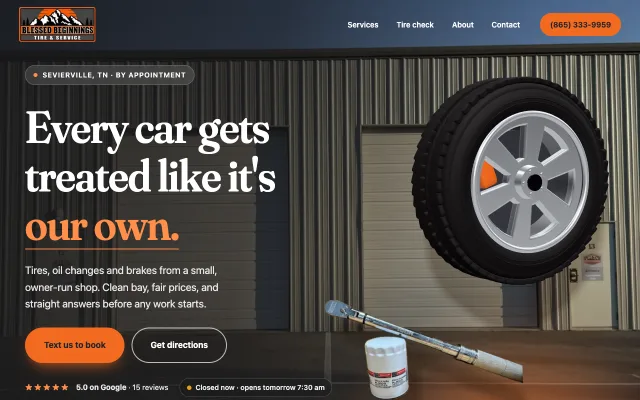
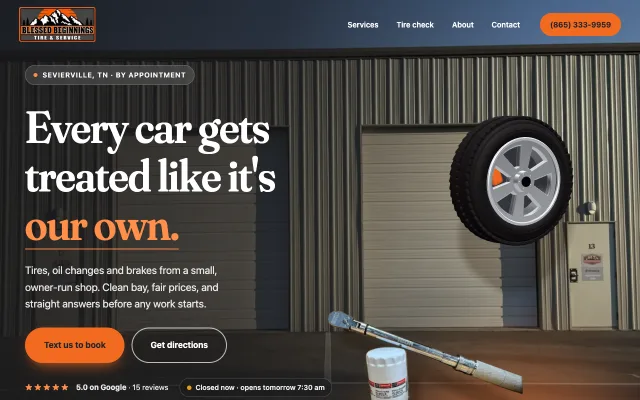
Our work: new Downtown River Rentals screenshot, smaller tire on Blessed, reorder cards
Downtown River Rentals card now shows the redesign that went live tonight.
Blessed Beginnings re-captured with the hero tire drawn smaller so it no
longer covers the shop door. Cards reordered so the dark-hero sites
(Blessed Beginnings, C&R Moving, Colortec) never sit side by side or
stacked; the ItemList follows the same order.

Changed region(s): [[0.625, 0.18, 0.9688, 0.81], [0.5, 0.75, 0.8438, 1.0], [0.7188, 0.99, 0.7812, 1.0]]

diff --git a/work/index.html b/work/index.html
@@ -21,7 +21,7 @@
 <link rel="preload" href="/fonts/fraunces-600-latin.woff2?v=5d28351743" as="font" type="font/woff2" crossorigin>
 <link rel="stylesheet" href="/css/style.css?v=bd54bf3161">
 <script type="application/ld+json">{"@context": "https://schema.org", "@type": "ProfessionalService", "@id": "https://www.saltservicesusa.com/#business", "name": "Salt Services", "description": "Marketing and AI implementation agency in Kodak, Tennessee. CRM implementation, AI implementation, Google and Meta advertising, web design, and SEO/AEO for local businesses in East Tennessee.", "url": "https://www.saltservicesusa.com/", "telephone": "+18667217258", "email": "info@saltservicesusa.com", "image": "https://www.saltservicesusa.com/og-image.png", "logo": "https://www.saltservicesusa.com/images/salt-logo.png", "address": {"@type": "PostalAddress", "addressLocality": "Kodak", "addressRegion": "TN", "addressCountry": "US"}, "areaServed": [{"@type": "City", "name": "Kodak, TN"}, {"@type": "City", "name": "Sevierville, TN"}, {"@type": "City", "name": "Pigeon Forge, TN"}, {"@type": "City", "name": "Gatlinburg, TN"}, {"@type": "City", "name": "Knoxville, TN"}, {"@type": "City", "name": "Maryville, TN"}, {"@type": "City", "name": "Dandridge, TN"}]}</script>
-<script type="application/ld+json">{"@context": "https://schema.org", "@type": "ItemList", "name": "Client websites built by Salt Services", "itemListElement": [{"@type": "ListItem", "position": 1, "name": "Mountain Landscapers", "url": "https://www.mtnlandscapers.com/"}, {"@type": "ListItem", "position": 2, "name": "Downtown River Rentals", "url": "https://www.downtown-riverrentals.com/"}, {"@type": "ListItem", "position": 3, "name": "A Happy Host", "url": "https://www.ahappyhost.com/"}, {"@type": "ListItem", "position": 4, "name": "Smoky Mountain Espresso", "url": "https://www.smokymountainespresso.com/"}, {"@type": "ListItem", "position": 5, "name": "Sevier CPAs", "url": "https://www.cpaservicessevierville.com/"}, {"@type": "ListItem", "position": 6, "name": "Colortec Powder Coating", "url": "https://www.colorteccoatings.com/"}, {"@type": "ListItem", "position": 7, "name": "Blessed Beginnings Tire & Service", "url": "https://www.blessedbeginningstire.com/"}, {"@type": "ListItem", "position": 8, "name": "C&R Moving", "url": "https://www.cr-moving.com/"}]}</script>
+<script type="application/ld+json">{"@context": "https://schema.org", "@type": "ItemList", "name": "Client websites built by Salt Services", "itemListElement": [{"@type": "ListItem", "position": 1, "name": "Mountain Landscapers", "url": "https://www.mtnlandscapers.com/"}, {"@type": "ListItem", "position": 2, "name": "Blessed Beginnings Tire & Service", "url": "https://www.blessedbeginningstire.com/"}, {"@type": "ListItem", "position": 3, "name": "Downtown River Rentals", "url": "https://www.downtown-riverrentals.com/"}, {"@type": "ListItem", "position": 4, "name": "A Happy Host", "url": "https://www.ahappyhost.com/"}, {"@type": "ListItem", "position": 5, "name": "C&R Moving", "url": "https://www.cr-moving.com/"}, {"@type": "ListItem", "position": 6, "name": "Smoky Mountain Espresso", "url": "https://www.smokymountainespresso.com/"}, {"@type": "ListItem", "position": 7, "name": "Sevier CPAs", "url": "https://www.cpaservicessevierville.com/"}, {"@type": "ListItem", "position": 8, "name": "Colortec Powder Coating", "url": "https://www.colorteccoatings.com/"}]}</script>
 <script type="application/ld+json">{"@context": "https://schema.org", "@type": "BreadcrumbList", "itemListElement": [{"@type": "ListItem", "position": 1, "name": "Home", "item": "https://www.saltservicesusa.com/"}, {"@type": "ListItem", "position": 2, "name": "Our work", "item": "https://www.saltservicesusa.com/work/"}]}</script>
 </head>
 <body>
@@ -71,8 +71,17 @@
           </div>
         </a>
       </li><li class="card work-card">
+        <a href="https://www.blessedbeginningstire.com/" target="_blank" rel="noopener">
+          <img src="/images/work/blessed-beginnings.webp?v=b18d848555" alt="Blessed Beginnings Tire & Service website: the shop's roll-up door and a tire beside the headline 'Every car gets treated like it's our own'" width="640" height="400" loading="lazy">
+          <div class="work-body">
+            <h3>Blessed Beginnings Tire &amp; Service</h3>
+            <p>A family-run, appointment-only tire shop in Sevierville. Customers can check their tread with a penny, decode the size on their sidewall and see whether the shop is open right now, then book through a two-step request that lands straight in the owners' inbox.</p>
+            <span class="card-link">Visit the live site &rsaquo;</span>
+          </div>
+        </a>
+      </li><li class="card work-card">
         <a href="https://www.downtown-riverrentals.com/" target="_blank" rel="noopener">
-          <img src="/images/work/downtown-river-rentals.webp?v=05687ec250" alt="Downtown River Rentals website — cottage porch photo under 'Riverside Vacation Homes in Pigeon Forge'" width="640" height="400" loading="lazy">
+          <img src="/images/work/downtown-river-rentals.webp?v=942a095041" alt="Downtown River Rentals website — cottage porch photo behind 'Riverside Vacation Homes in Pigeon Forge' with Check availability and See the cottages buttons" width="640" height="400" loading="lazy">
           <div class="work-body">
             <h3>Downtown River Rentals</h3>
             <p>Vacation cottages a short walk from the Pigeon Forge Parkway. The site has one job: direct bookings that skip the booking platforms and their commission.</p>
@@ -85,6 +94,15 @@
           <div class="work-body">
             <h3>A Happy Host</h3>
             <p>A services hub for the short-term rental owners who keep the Smokies' cabins running — cleaning, concierge, and project work, presented so owners can act fast.</p>
+            <span class="card-link">Visit the live site &rsaquo;</span>
+          </div>
+        </a>
+      </li><li class="card work-card">
+        <a href="https://www.cr-moving.com/" target="_blank" rel="noopener">
+          <img src="/images/work/cr-moving.webp?v=bcbf6bb801" alt="C&amp;R Moving website: a moving truck at a mountain cabin under 'Sevierville movers who don't scratch a thing', with the quote form beside it" width="640" height="400" loading="lazy">
+          <div class="work-body">
+            <h3>C&amp;R Moving</h3>
+            <p>A veteran-owned moving crew from Sevierville that moves houses, cabins and apartments across Sevier County and Knoxville. Every page leads to a short quote form, and every call and request comes into one place so no move gets missed.</p>
             <span class="card-link">Visit the live site &rsaquo;</span>
           </div>
         </a>
@@ -112,24 +130,6 @@
           <div class="work-body">
             <h3>Colortec Powder Coating</h3>
             <p>Sandblasting and powder coating out of Sevierville, serving everyone from gearheads with a single part to industrial contractors with a full run. A working site for a working shop.</p>
-            <span class="card-link">Visit the live site &rsaquo;</span>
-          </div>
-        </a>
-      </li><li class="card work-card">
-        <a href="https://www.blessedbeginningstire.com/" target="_blank" rel="noopener">
-          <img src="/images/work/blessed-beginnings.webp?v=e16cde32a5" alt="Blessed Beginnings Tire & Service website: a tire and torque wrench beside the headline 'Every car gets treated like it's our own'" width="640" height="400" loading="lazy">
-          <div class="work-body">
-            <h3>Blessed Beginnings Tire &amp; Service</h3>
-            <p>A family-run, appointment-only tire shop in Sevierville. Customers can check their tread with a penny, decode the size on their sidewall and see whether the shop is open right now, then book through a two-step request that lands straight in the owners' inbox.</p>
-            <span class="card-link">Visit the live site &rsaquo;</span>
-          </div>
-        </a>
-      </li><li class="card work-card">
-        <a href="https://www.cr-moving.com/" target="_blank" rel="noopener">
-          <img src="/images/work/cr-moving.webp?v=bcbf6bb801" alt="C&amp;R Moving website: a moving truck at a mountain cabin under 'Sevierville movers who don't scratch a thing', with the quote form beside it" width="640" height="400" loading="lazy">
-          <div class="work-body">
-            <h3>C&amp;R Moving</h3>
-            <p>A veteran-owned moving crew from Sevierville that moves houses, cabins and apartments across Sevier County and Knoxville. Every page leads to a short quote form, and every call and request comes into one place so no move gets missed.</p>
             <span class="card-link">Visit the live site &rsaquo;</span>
           </div>
         </a>

diff --git a/index.html b/index.html
@@ -157,7 +157,7 @@
       </li>
       <li class="card work-card">
         <a href="https://www.downtown-riverrentals.com/" target="_blank" rel="noopener">
-          <img src="/images/work/downtown-river-rentals.webp?v=05687ec250" alt="Downtown River Rentals website — cottage porch photo under 'Riverside Vacation Homes in Pigeon Forge'" width="640" height="400" loading="lazy">
+          <img src="/images/work/downtown-river-rentals.webp?v=942a095041" alt="Downtown River Rentals website — cottage porch photo behind 'Riverside Vacation Homes in Pigeon Forge' with Check availability and See the cottages buttons" width="640" height="400" loading="lazy">
           <div class="work-body">
             <h3>Downtown River Rentals</h3>
             <p>A direct-booking site for Pigeon Forge vacation cottages — bookings without the platform commission.</p>
@@ -167,7 +167,7 @@
       </li>
       <li class="card work-card">
         <a href="https://www.blessedbeginningstire.com/" target="_blank" rel="noopener">
-          <img src="/images/work/blessed-beginnings.webp?v=e16cde32a5" alt="Blessed Beginnings Tire &amp; Service website: a tire and torque wrench beside the headline 'Every car gets treated like it's our own'" width="640" height="400" loading="lazy">
+          <img src="/images/work/blessed-beginnings.webp?v=b18d848555" alt="Blessed Beginnings Tire &amp; Service website: the shop's roll-up door and a tire beside the headline 'Every car gets treated like it's our own'" width="640" height="400" loading="lazy">
           <div class="work-body">
             <h3>Blessed Beginnings Tire &amp; Service</h3>
             <p>A family-run tire shop site with a penny tread check, a sidewall size reader and two-step booking.</p>

diff --git a/_build/pages_content.py b/_build/pages_content.py
@@ -151,7 +151,7 @@ HOME_BODY = f"""<section class="hero hero-3d">
       </li>
       <li class="card work-card">
         <a href="https://www.downtown-riverrentals.com/" target="_blank" rel="noopener">
-          <img src="/images/work/downtown-river-rentals.webp" alt="Downtown River Rentals website — cottage porch photo under 'Riverside Vacation Homes in Pigeon Forge'" width="640" height="400" loading="lazy">
+          <img src="/images/work/downtown-river-rentals.webp" alt="Downtown River Rentals website — cottage porch photo behind 'Riverside Vacation Homes in Pigeon Forge' with Check availability and See the cottages buttons" width="640" height="400" loading="lazy">
           <div class="work-body">
             <h3>Downtown River Rentals</h3>
             <p>A direct-booking site for Pigeon Forge vacation cottages — bookings without the platform commission.</p>
@@ -161,7 +161,7 @@ HOME_BODY = f"""<section class="hero hero-3d">
       </li>
       <li class="card work-card">
         <a href="https://www.blessedbeginningstire.com/" target="_blank" rel="noopener">
-          <img src="/images/work/blessed-beginnings.webp" alt="Blessed Beginnings Tire &amp; Service website: a tire and torque wrench beside the headline 'Every car gets treated like it's our own'" width="640" height="400" loading="lazy">
+          <img src="/images/work/blessed-beginnings.webp" alt="Blessed Beginnings Tire &amp; Service website: the shop's roll-up door and a tire beside the headline 'Every car gets treated like it's our own'" width="640" height="400" loading="lazy">
           <div class="work-body">
             <h3>Blessed Beginnings Tire &amp; Service</h3>
             <p>A family-run tire shop site with a penny tread check, a sidewall size reader and two-step booking.</p>
@@ -745,14 +745,22 @@ WORK_ENTRIES = "".join([
         "Mountain Landscapers website — a crew member finishing fresh concrete behind the headline 'Landscape Design and Installation, Sevierville, TN'",
         "Mountain Landscapers",
         "Landscape design, hardscapes, and grounds care for the Smoky Mountain foothills. The site is organized page by page around the searches Sevier County homeowners actually type, from retaining walls to outdoor living."),
+    work_entry("https://www.blessedbeginningstire.com/", "blessed-beginnings",
+        "Blessed Beginnings Tire & Service website: the shop's roll-up door and a tire beside the headline 'Every car gets treated like it's our own'",
+        "Blessed Beginnings Tire &amp; Service",
+        "A family-run, appointment-only tire shop in Sevierville. Customers can check their tread with a penny, decode the size on their sidewall and see whether the shop is open right now, then book through a two-step request that lands straight in the owners' inbox."),
     work_entry("https://www.downtown-riverrentals.com/", "downtown-river-rentals",
-        "Downtown River Rentals website — cottage porch photo under 'Riverside Vacation Homes in Pigeon Forge'",
+        "Downtown River Rentals website — cottage porch photo behind 'Riverside Vacation Homes in Pigeon Forge' with Check availability and See the cottages buttons",
         "Downtown River Rentals",
         "Vacation cottages a short walk from the Pigeon Forge Parkway. The site has one job: direct bookings that skip the booking platforms and their commission."),
     work_entry("https://www.ahappyhost.com/", "a-happy-host",
         "A Happy Host website — concierge services hero for short-term rental owners",
         "A Happy Host",
         "A services hub for the short-term rental owners who keep the Smokies' cabins running — cleaning, concierge, and project work, presented so owners can act fast."),
+    work_entry("https://www.cr-moving.com/", "cr-moving",
+        "C&amp;R Moving website: a moving truck at a mountain cabin under 'Sevierville movers who don't scratch a thing', with the quote form beside it",
+        "C&amp;R Moving",
+        "A veteran-owned moving crew from Sevierville that moves houses, cabins and apartments across Sevier County and Knoxville. Every page leads to a short quote form, and every call and request comes into one place so no move gets missed."),
     work_entry("https://www.smokymountainespresso.com/", "smoky-mountain-espresso",
         "Smoky Mountain Espresso website — the shop's timber building under 'A Sevierville coffee shop worth slowing down for'",
         "Smoky Mountain Espresso",
@@ -765,14 +773,6 @@ WORK_ENTRIES = "".join([
         "Colortec Powder Coating website — technician spraying a part in the coating booth",
         "Colortec Powder Coating",
         "Sandblasting and powder coating out of Sevierville, serving everyone from gearheads with a single part to industrial contractors with a full run. A working site for a working shop."),
-    work_entry("https://www.blessedbeginningstire.com/", "blessed-beginnings",
-        "Blessed Beginnings Tire & Service website: a tire and torque wrench beside the headline 'Every car gets treated like it's our own'",
-        "Blessed Beginnings Tire &amp; Service",
-        "A family-run, appointment-only tire shop in Sevierville. Customers can check their tread with a penny, decode the size on their sidewall and see whether the shop is open right now, then book through a two-step request that lands straight in the owners' inbox."),
-    work_entry("https://www.cr-moving.com/", "cr-moving",
-        "C&amp;R Moving website: a moving truck at a mountain cabin under 'Sevierville movers who don't scratch a thing', with the quote form beside it",
-        "C&amp;R Moving",
-        "A veteran-owned moving crew from Sevierville that moves houses, cabins and apartments across Sevier County and Knoxville. Every page leads to a short quote form, and every call and request comes into one place so no move gets missed."),
 ])
 
 # Salt's own showcase — featured above the client grid, clearly marked as ours
@@ -797,13 +797,13 @@ WORK_LD = {
         {"@type": "ListItem", "position": i + 1, "name": n, "url": u}
         for i, (n, u) in enumerate([
             ("Mountain Landscapers", "https://www.mtnlandscapers.com/"),
+            ("Blessed Beginnings Tire & Service", "https://www.blessedbeginningstire.com/"),
             ("Downtown River Rentals", "https://www.downtown-riverrentals.com/"),
             ("A Happy Host", "https://www.ahappyhost.com/"),
+            ("C&R Moving", "https://www.cr-moving.com/"),
             ("Smoky Mountain Espresso", "https://www.smokymountainespresso.com/"),
             ("Sevier CPAs", "https://www.cpaservicessevierville.com/"),
             ("Colortec Powder Coating", "https://www.colorteccoatings.com/"),
-            ("Blessed Beginnings Tire & Service", "https://www.blessedbeginningstire.com/"),
-            ("C&R Moving", "https://www.cr-moving.com/"),
         ])
     ],
 }
